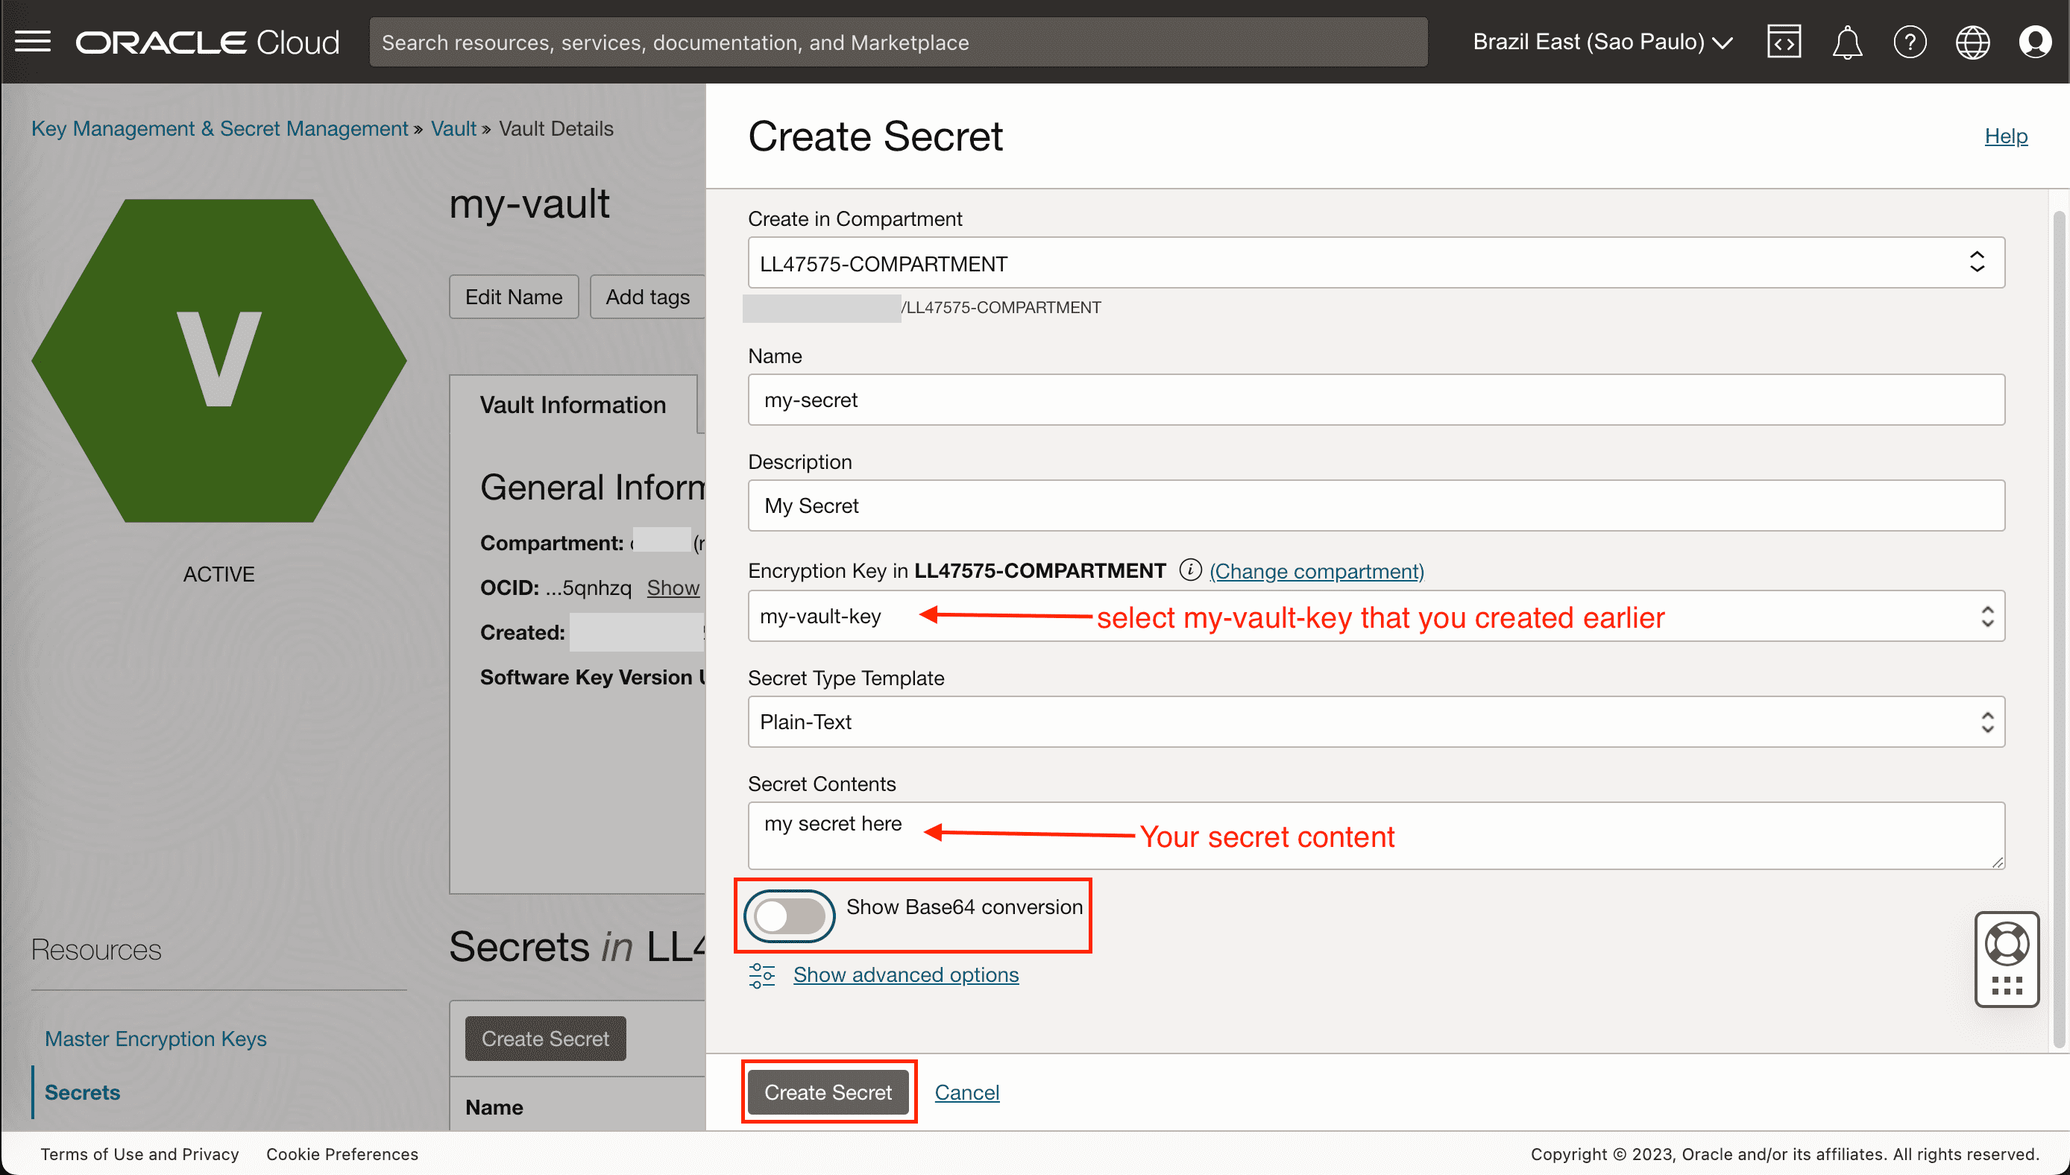
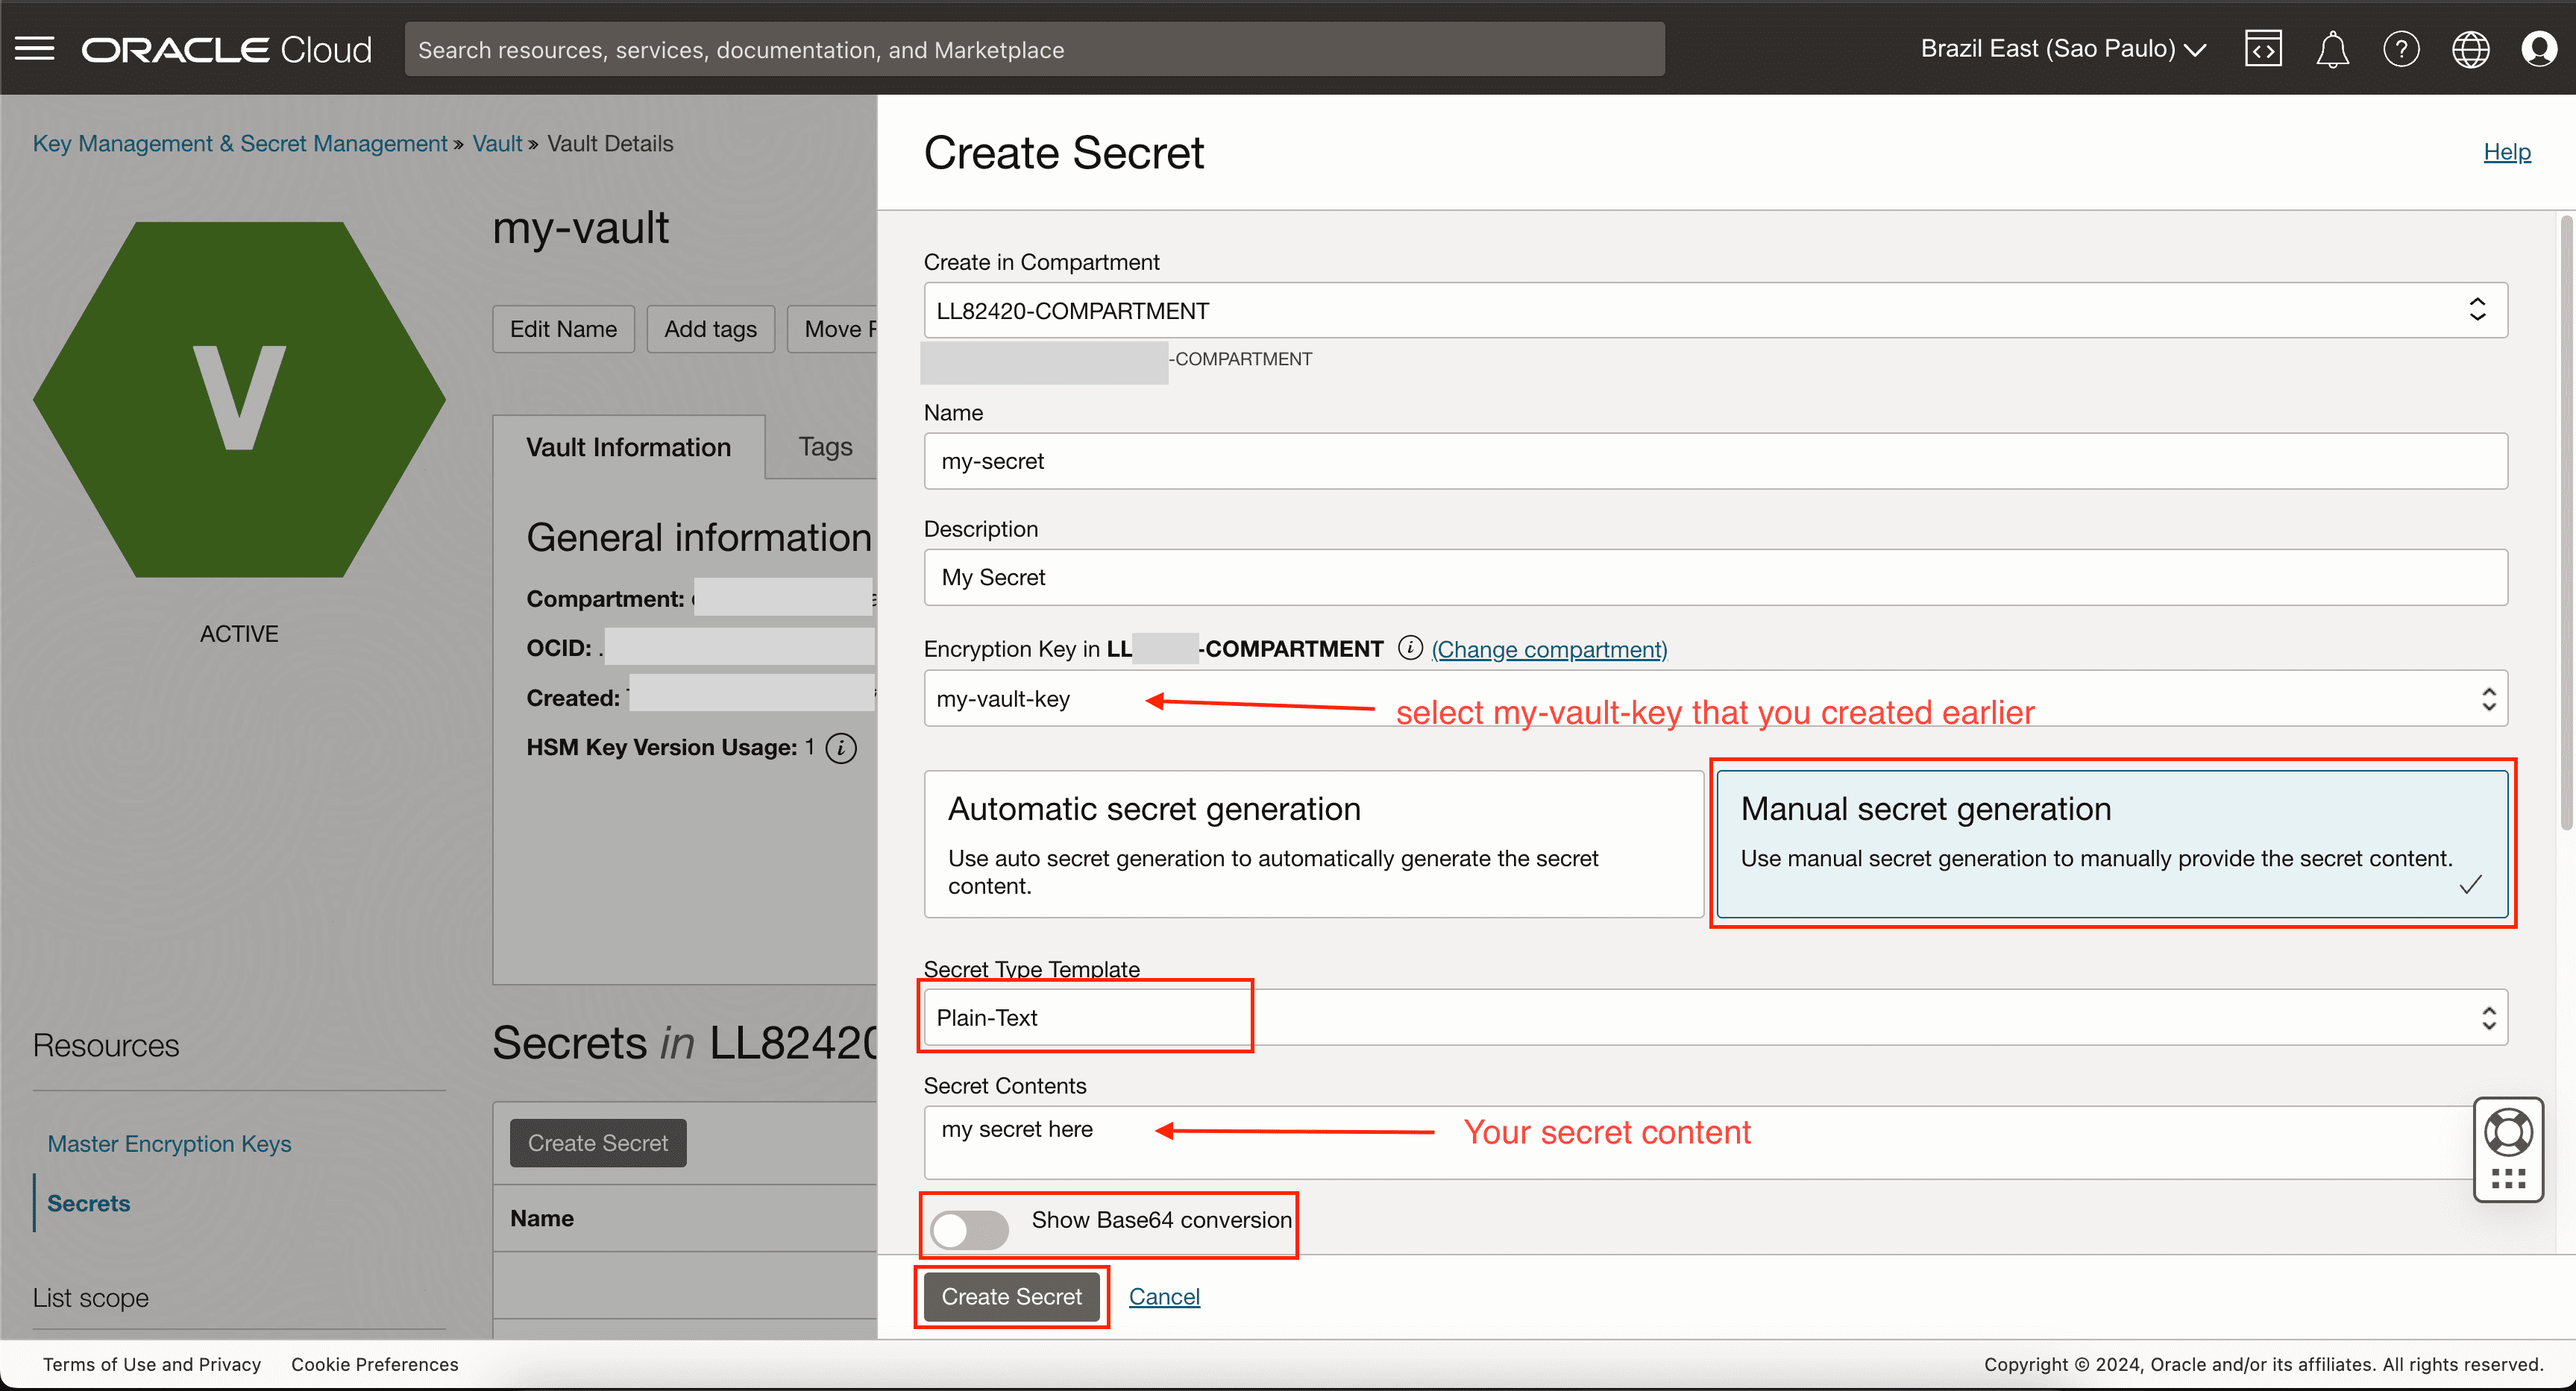
Update screenshots.

diff --git a/managing-credentials-using-oci-vault/setup-oci-vault/oci-vault-setup-sandbox.md b/managing-credentials-using-oci-vault/setup-oci-vault/oci-vault-setup-sandbox.md
@@ -77,10 +77,11 @@ We will now create a Vault in the target compartment, then add a key that will b
       - Description: `My Secret`
       - Encryption Key: select `my-vault-key` created earlier
       - Secret Contents: `<my secret here>`
-16. Click Create Secret button
+        - You can use the Automatic Secret Generation option, which would suggest a strong secret.
+16. Click Create Secret button and fill out the form
     ![Create Secret Interface ](../setup-oci-vault/images/vault-image-5.png "Create Secret Interface")
-17. Click on the secret `my-secret`
     ![Create Secret Form](../setup-oci-vault/images/vault-image-6.png "Create Secret Form")
+17. Click on the secret `my-secret`
 18. Copy the secret OCID to be used next.
     ![Secret OCID](../setup-oci-vault/images/vault-image-7.png "Secret OCID")
 

diff --git a/managing-credentials-using-oci-vault/setup-oci-vault/oci-vault-setup-tenancy.md b/managing-credentials-using-oci-vault/setup-oci-vault/oci-vault-setup-tenancy.md
@@ -90,10 +90,11 @@ We will now create a Vault in the target compartment, then add a key that will b
       - Description: `My Secret`
       - Encryption Key: select `my-vault-key` created earlier
       - Secret Contents: `<my secret here>`
-16. Click Create Secret button
+        - You can use the Automatic Secret Generation option, which would suggest a strong secret.
+16. Click Create Secret button and fill out the form
     ![Create Secret Interface](../setup-oci-vault/images/vault-image-5.png "Create Secret Interface")
-17. Click on the secret `my-secret`
     ![Create Secret Form](../setup-oci-vault/images/vault-image-6.png "Create Secret Form")
+17. Click on the secret `my-secret`
 18. Copy the secret OCID to be used next.
     ![Secret OCID](../setup-oci-vault/images/vault-image-7.png "Secret OCID")
 
